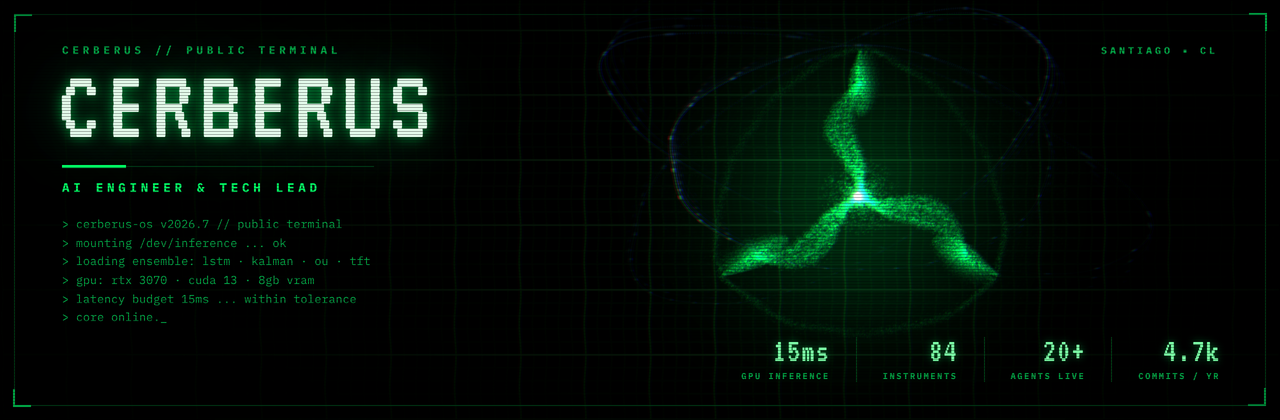
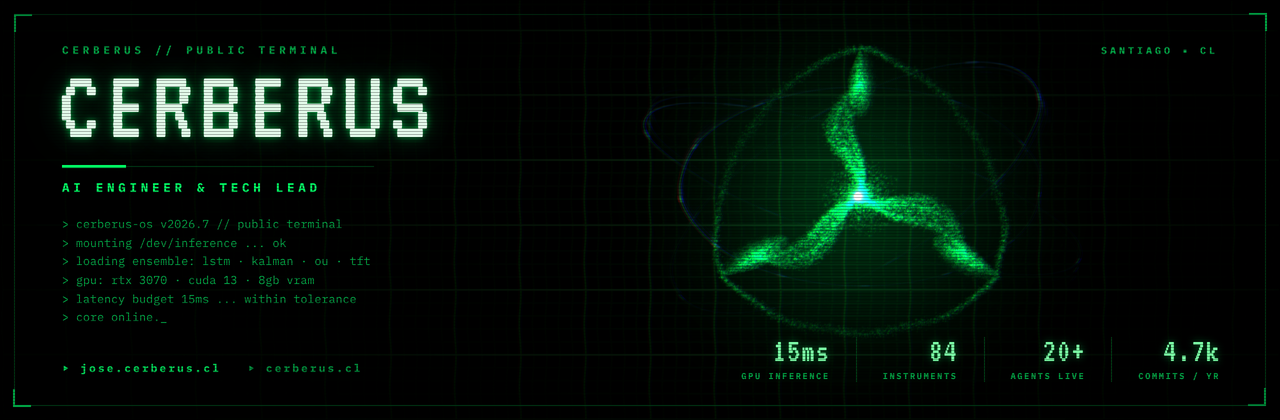
feat(hero): THE CORE — deterministic WebGL2 particle scene
A three-lobed particle topology that forms and disperses over an 8s loop: Cerberus
has three heads and the systems in this README are multi-agent, so the shape means
both. Rendered on a real GPU through Chromium, captured frame by frame with an
injected clock so a re-render is reproducible.

Verified rather than assumed:
- loop closes seamlessly — the 159->0 wrap differs by 22.4/255, a normal frame
  step differs by 19.9/255
- the delivered WebP animates in GitHub's camo <img> context (delta 50.6/255)
- 1373 KB dark / 1564 KB light, both inside the 2 MB budget
- APNG was dropped from the design: the same frames encode to 72 MB

launch.mjs documents the flag probing: the headless shell has no working GPU path
here and --use-angle=gl fails to create a WebGL2 context at all; --use-angle=vulkan
on full Chromium reaches the RTX 3070.

Changed region(s): [[0.5312, 0.0929, 0.7812, 0.7119], [0.0625, 0.8667, 0.2812, 0.8976], [0.5, 0.2786, 0.5625, 0.4333]]

diff --git a/render/index.html b/render/index.html
@@ -20,10 +20,13 @@
   --rule:rgba(0,255,102,.20);
   --scan:.30;
 }
+/* The light variant is a schematic, not an inverted terminal: the dims have to
+   be genuinely dark or they vanish on #f6f8fa, and the phosphor glow is dropped
+   entirely (a glow on paper reads as a printing misregistration). */
 html[data-theme="light"]{
-  --phos:#0f62fe; --phos-bright:#002d9c; --phos-dim:#4a6a92; --phos-dark:#c9d6e6;
-  --ink:#0a1a33;
-  --rule:rgba(15,98,254,.26);
+  --phos:#0f62fe; --phos-bright:#002d9c; --phos-dim:#33507a; --phos-dark:#aebfd6;
+  --ink:#001233;
+  --rule:rgba(15,98,254,.34);
   --scan:0;
 }
 
@@ -56,10 +59,12 @@ canvas{position:absolute;inset:0;width:var(--w);height:var(--h);display:block}
 
 #mark{position:absolute;left:58px;top:60px;font-family:"CerberusDisplay",monospace;
   font-size:104px;line-height:.9;letter-spacing:.055em;color:var(--ink);
+  /* Three tight radii, not one wide one. A single 70px shadow renders as a
+     rectangular green smudge around the word block rather than as a glow. */
   text-shadow:
-    0 0 calc(2px + 10px*var(--glow)) rgb(0 255 102 / calc(.55*var(--glow))),
-    0 0 calc(6px + 34px*var(--glow)) rgb(0 255 102 / calc(.30*var(--glow))),
-    0 0 calc(10px + 70px*var(--glow)) rgb(0 255 102 / calc(.16*var(--glow)));
+    0 0 calc(1px + 6px*var(--glow))  rgb(0 255 102 / calc(.58*var(--glow))),
+    0 0 calc(4px + 18px*var(--glow)) rgb(0 255 102 / calc(.26*var(--glow))),
+    0 0 calc(8px + 40px*var(--glow)) rgb(0 255 102 / calc(.10*var(--glow)));
   white-space:pre}
 html[data-theme="light"] #mark{text-shadow:none}
 
@@ -146,7 +151,6 @@ const scene = await createScene(canvas, paletteFor(theme))
 
 const root = document.documentElement
 const boot = document.querySelector("#boot")
-const mark = document.querySelector("#mark")
 const hud = document.querySelector("#hud")
 const bootwrap = document.querySelector("#bootwrap")
 
@@ -173,8 +177,10 @@ window.__frame = i => {
   boot.textContent = BOOT_LOG.slice(0, p.bootChars) + caret
   bootwrap.style.opacity = logAlpha(p.u).toFixed(4)
 
-  mark.style.opacity = (0.55 + 0.45 * p.morph).toFixed(4)
-  hud.style.opacity = (0.22 + 0.78 * p.morph).toFixed(4)
+  // The wordmark never fades. Modulating its opacity turned the identity grey
+  // for a quarter of the loop; only the phosphor halo (--glow) breathes, which
+  // is the behaviour of a real tube and leaves the name always solid.
+  hud.style.opacity = (0.46 + 0.54 * p.morph).toFixed(4)
 }
 
 /* Fonts must be RESOLVED, not merely declared, before the driver starts

diff --git a/render/README.md b/render/README.md
@@ -1,0 +1,80 @@
+# `THE CORE` — hero render pipeline
+
+Renders `assets/hero/hero-dark.webp`, `hero-light.webp` and `hero-static.png`: a
+seamless 8-second looping banner, 1280×420, from a deterministic WebGL2 scene.
+
+## Re-render
+
+```bash
+npm install                       # from profile/, installs the pinned Playwright
+node render/capture.mjs --theme dark
+node render/capture.mjs --theme light
+render/encode.sh dark && render/encode.sh light
+```
+
+## How it stays reproducible
+
+`timeline.mjs` maps a frame index to every animated quantity and nothing else —
+no clock, no `Math.random`. `index.html` exposes `window.__frame(i)` and never
+calls `requestAnimationFrame`, so the driver, not the compositor, decides when a
+frame exists. Geometry comes from a seeded `mulberry32`.
+
+The CRT's phosphor persistence is the one stateful thing in the scene, and it is
+neutralised by a pre-roll: before compositing frame *N* the ping-pong buffers are
+cleared and frames *N−8 … N−1* are folded back in. Since `paramsAt` is periodic,
+`paramsAt(-1)` is visually `paramsAt(159)`, so frame 0 gets the phosphor trail it
+would have had coming round the loop — the loop closes through the persistence
+too. This was checked by rendering frame 80 three ways — cold, after walking
+0…79, and after jumping back from frame 159 — and hashing the screenshots: all
+three were identical.
+
+## Chromium flags — measured, not copied
+
+| configuration | WebGL2 renderer |
+|---|---|
+| `chrome-headless-shell` + `--use-gl=angle --use-angle=gl` | **context creation fails** |
+| `chrome-headless-shell` + `--use-angle=swiftshader` | SwiftShader (CPU) |
+| `channel:"chromium"` + `--use-angle=gl` | **context creation fails** |
+| `channel:"chromium"`, defaults | SwiftShader (CPU) |
+| `channel:"chromium"` + `--use-angle=vulkan --enable-gpu` | NVIDIA RTX 3070 |
+
+So the full Chromium build is required and ANGLE must be pointed at Vulkan;
+`launch.mjs` holds both configurations. `--allow-file-access-from-files` is also
+mandatory — `index.html` is an ES module graph and Chromium blocks
+`file://` → `file://` module fetches as cross-origin without it.
+
+Set `HERO_SWIFTSHADER=1` to render on the CPU instead. It is about two orders of
+magnitude slower but identical on every machine, which is the configuration to
+use if the render ever has to be reproduced bit-for-bit off this workstation.
+
+## Layers
+
+| # | Layer | Where |
+|---|---|---|
+| 0 | Background grid, core halo, vignette | `scene/backdrop.mjs` |
+| 1 | Particle core — 48k points, additive | `scene/core.mjs` |
+| 2 | Three orbit rings | `scene/rings.mjs` |
+| 3 | CRT post-process (ported from the portfolio's `crt.ts`) | `scene/crt.mjs` |
+| 4 | Wordmark, boot log, HUD | DOM, in `index.html` |
+
+Typography is DOM rather than WebGL so the wordmark survives the 2× downsample
+and the WebP quantiser as real rasterised type. The scanline overlay is applied
+over the DOM as well as the canvas — without that the CRT treatment stops at the
+edge of the wordmark and the composite reads as two unrelated layers.
+
+`fonts/` holds local copies of the three subset faces from `packages/fonts/`,
+referenced relatively; the page awaits `document.fonts.load(...)` and
+`document.fonts.ready` before setting `window.__ready`, or the first frames
+capture in a fallback face.
+
+## Palettes
+
+`scene/palette.mjs` reads `tools/tokens/tokens.json` directly rather than
+`tools/tokens/index.mjs`, because that module reads the file with `node:fs` at
+module scope and cannot be imported by a page. It is the same canonical artefact.
+
+The light variant is not the dark one inverted. Ink deposits on paper instead of
+light accumulating on a tube, so the particle blend is `SRC_ALPHA /
+ONE_MINUS_SRC_ALPHA`, the backdrop's grid and halo terms run subtractively
+(`u_polarity`), and the CRT is off entirely — barrel distortion and scanlines on
+a white sheet read as a printing fault, not as a monitor.
